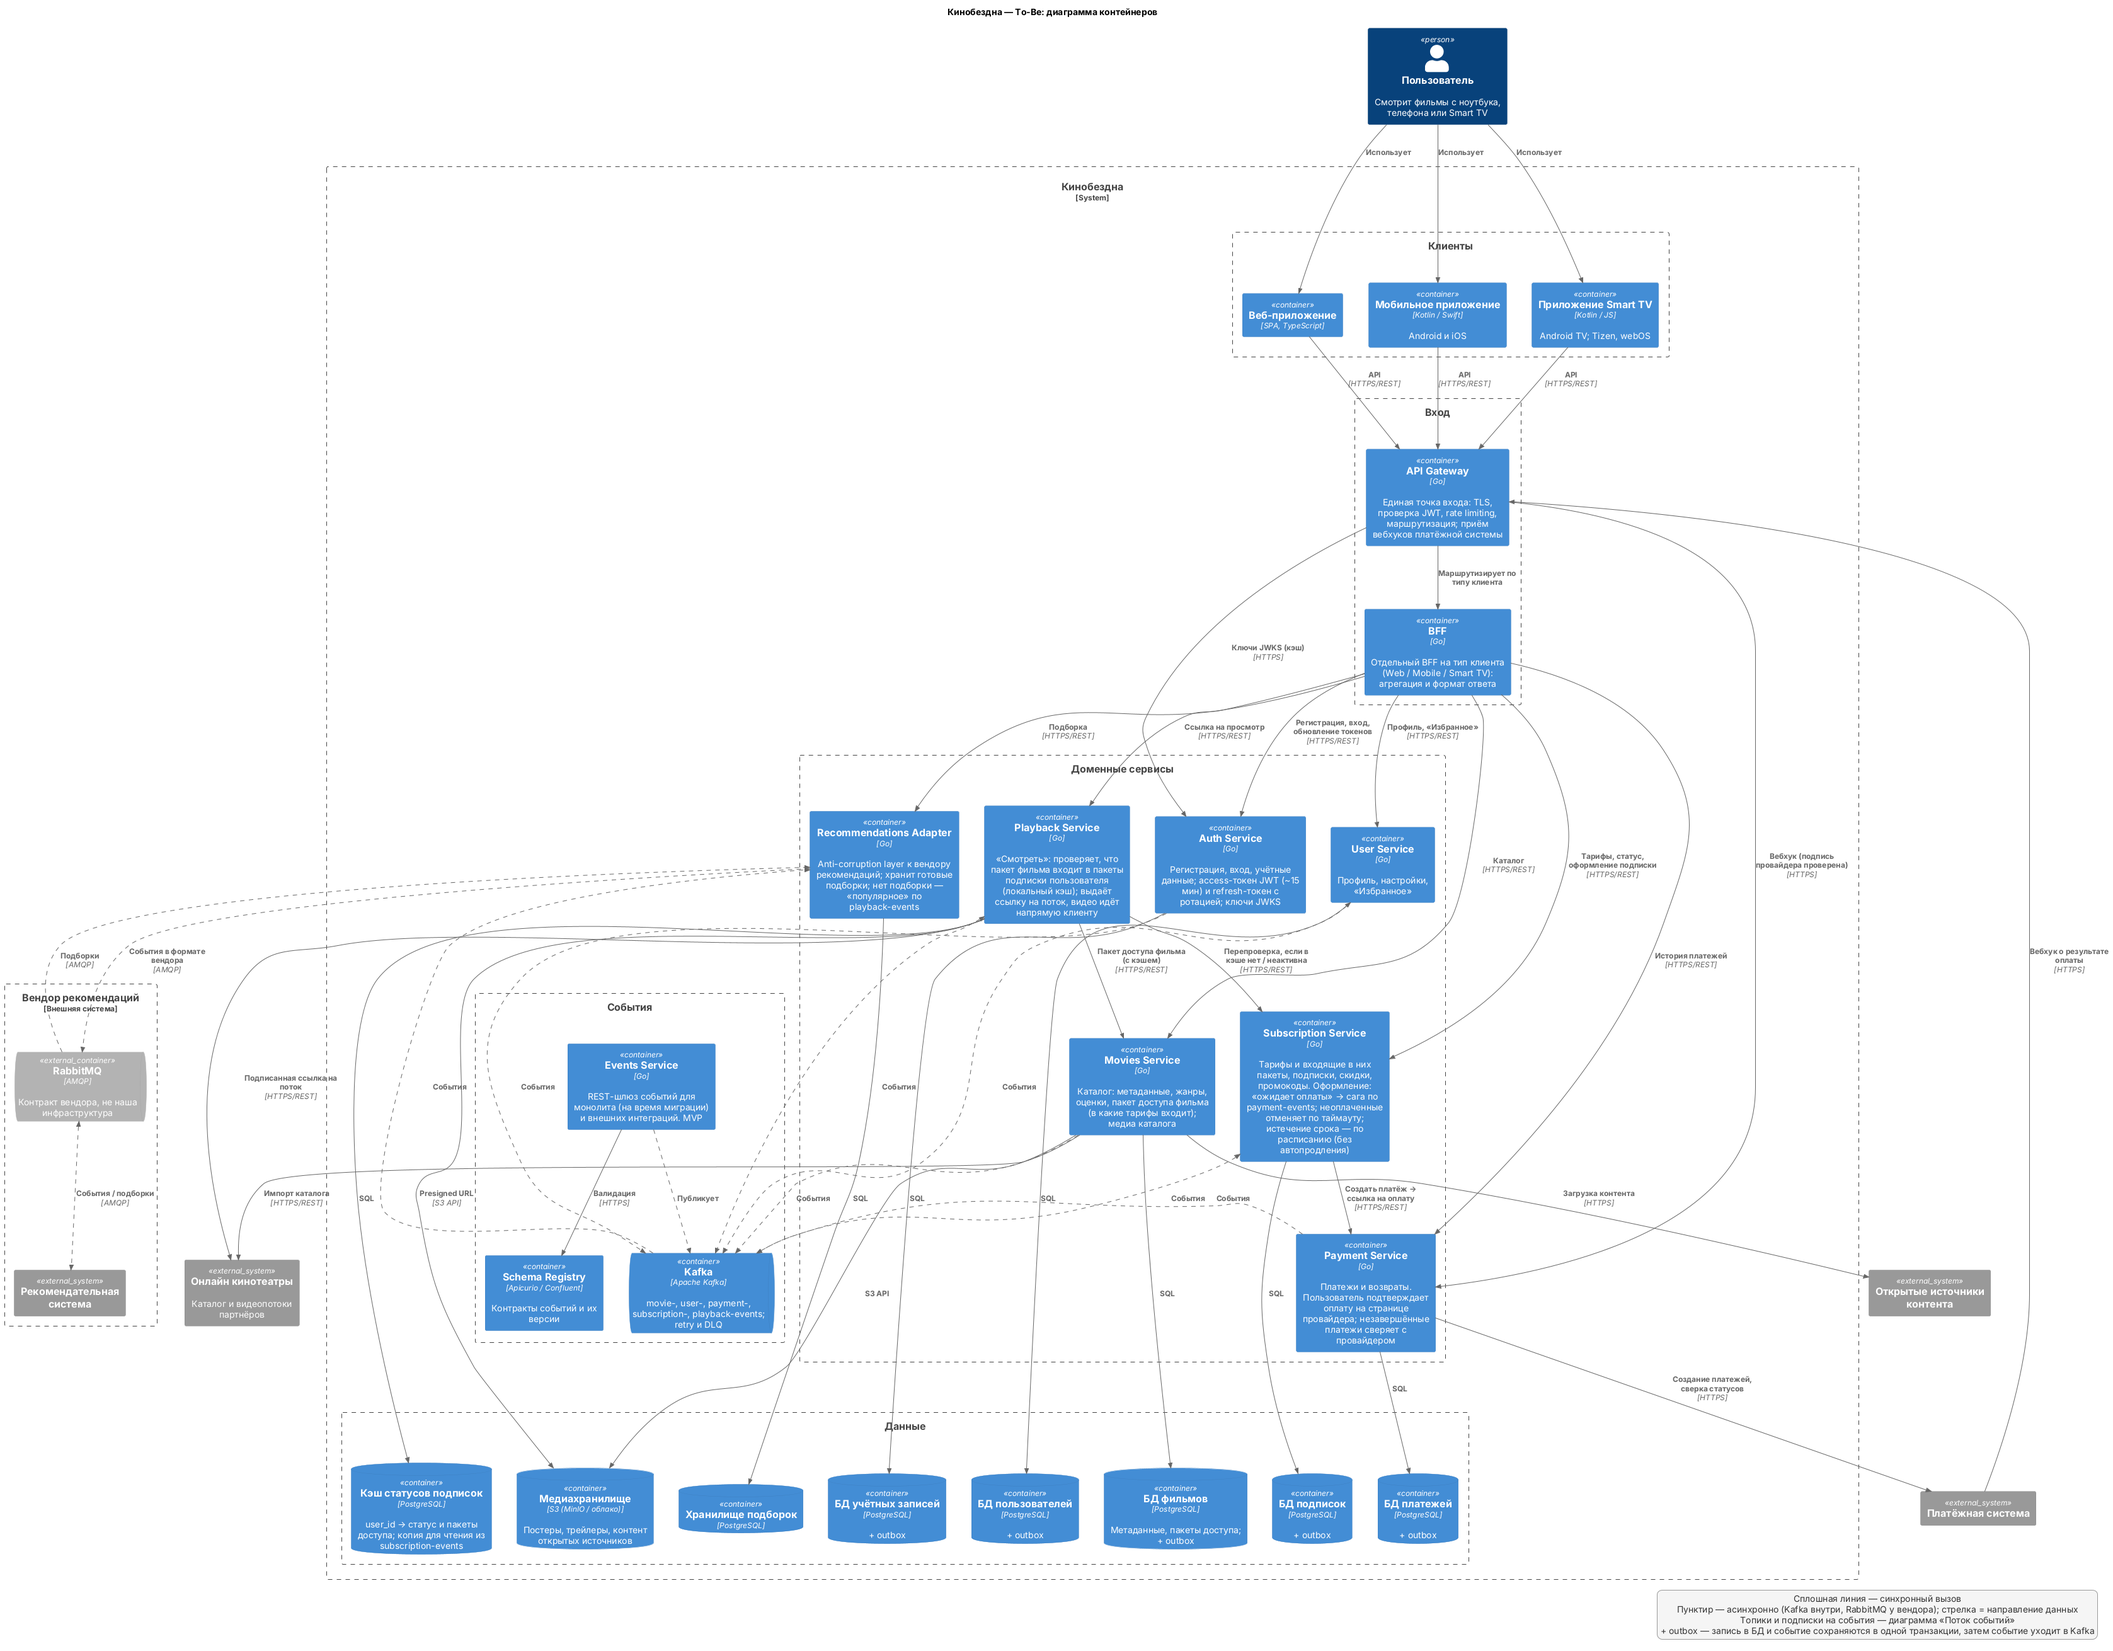
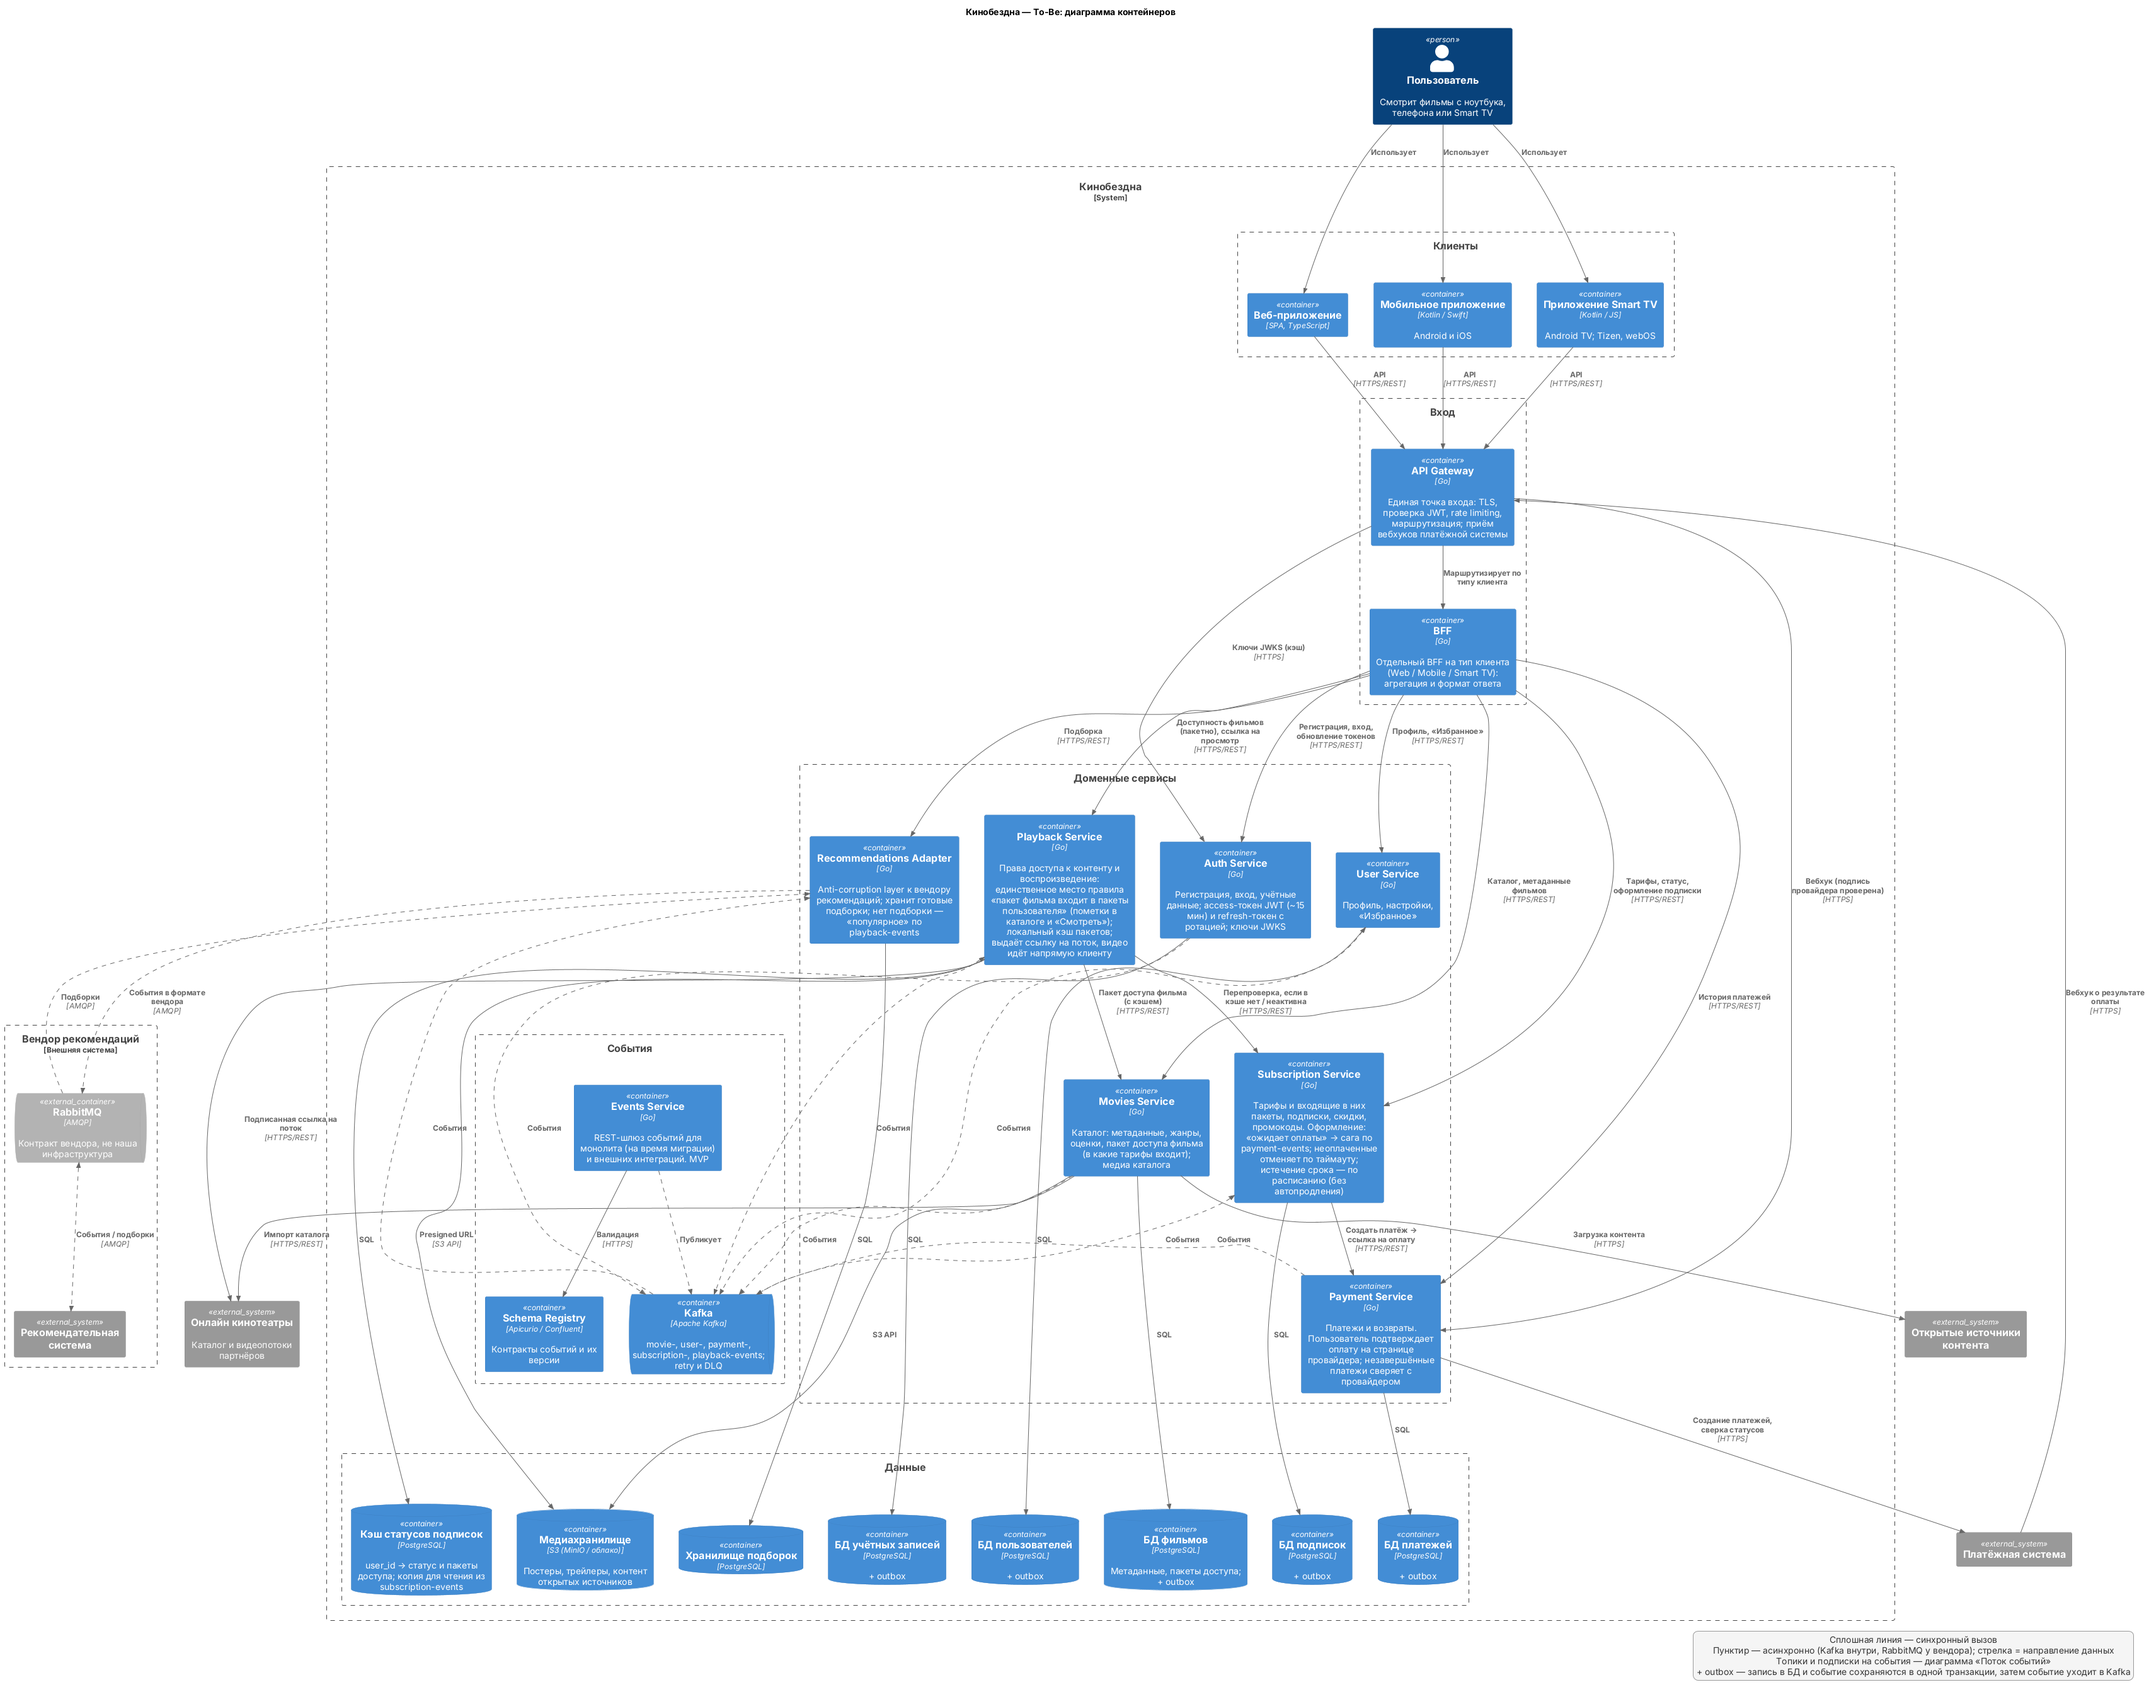
task1: Playback — единая точка проверки прав доступа (каталог и просмотр)

diff --git a/Project_template.md b/Project_template.md
@@ -29,7 +29,7 @@
 | Movies Service | Каталог: метаданные, жанры, оценки, пакет доступа фильма; импорт каталога партнёров, загрузка контента открытых источников | PostgreSQL + S3 (медиа) |
 | Subscription Service | Тарифы и входящие в них пакеты, подписки, скидки, промокоды; сага оформления | PostgreSQL |
 | Payment Service | Платежи и возвраты, интеграция с платёжной системой, приём вебхуков, сверка статусов | PostgreSQL |
-| Playback Service | Сценарий «Смотреть»: проверка прав на фильм, выдача ссылки на поток | PostgreSQL (кэш пакетов доступа) |
+| Playback Service | Права доступа к контенту (доступность фильмов для каталога и проверка перед просмотром), выдача ссылки на поток | PostgreSQL (кэш пакетов доступа) |
 | Recommendations Adapter | Anti-corruption layer к внешней рекомендательной системе, хранение подборок | PostgreSQL |
 | Events Service | REST-шлюз событий для монолита (на время миграции) и внешних интеграций; MVP задания 2 | — |
 
@@ -51,7 +51,7 @@
 1. **Своя БД у каждого сервиса.** Общая БД монолита — только переходный этап.
 2. **Подписки отдельно от платежей.** Подписка — права доступа (частое чтение), может возникать без оплаты (промокод, пробный период); платёж — деньги. Связь через `payment-events`.
 3. **Сага оформления подписки (хореография):** Subscription создаёт подписку «ожидает оплаты» и вызывает Payment → пользователь платит на странице провайдера → вебхук → `PaymentSucceeded` → подписка активирована. Отказ или таймаут → подписка отменена. Payment сверяет незавершённые платежи с провайдером. Автопродления нет: подписка на срок, по истечении Subscription публикует «истекла».
-4. **Права на контент.** Соответствие «тариф → пакеты» хранит Subscription и публикует пакеты пользователя в `subscription-events`; Movies хранит пакет каждого фильма; Playback проверяет, что пакет фильма входит в пакеты пользователя.
+4. **Права на контент.** Соответствие «тариф → пакеты» хранит Subscription и публикует пакеты пользователя в `subscription-events`; Movies хранит пакет каждого фильма; Playback проверяет, что пакет фильма входит в пакеты пользователя. Playback — **единственное место** этого правила: и пометки «входит в подписку» в каталоге (BFF запрашивает у Playback доступность списка фильмов), и решение при нажатии «Смотреть». Так экран и просмотр не могут разойтись, а показ каталога не нагружает Subscription.
 5. **Playback не зависит от Subscription на горячем пути:** держит локальный кэш пакетов пользователей из `subscription-events` (топик с compaction, кэш можно восстановить). Если записи нет или подписка неактивна — синхронная перепроверка в Subscription (чтобы только что оплативший пользователь не получил отказ).
 6. **Видео не идёт через наш кластер:** Playback выдаёт подписанную временную ссылку, клиент смотрит напрямую с CDN партнёра или из нашего S3.
 7. **Рекомендации асинхронно** (условие кейса). Подборки хранятся у нас, сбой вендора не влияет на пользователя; для новых пользователей — «популярное» по `playback-events`.
